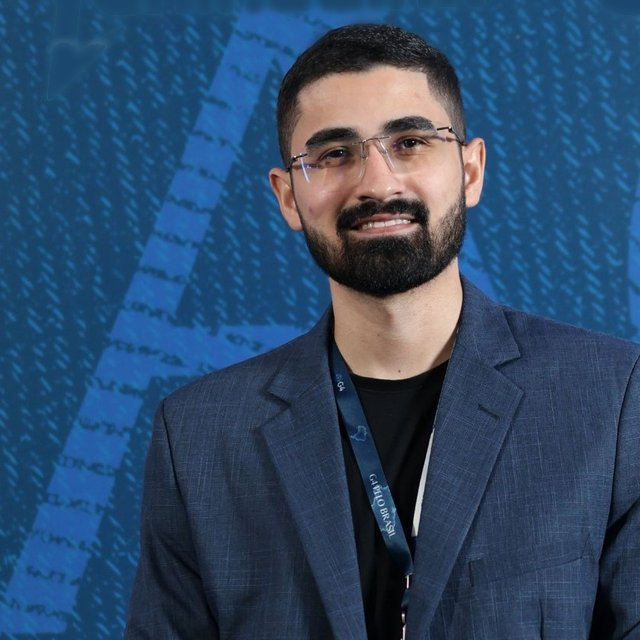
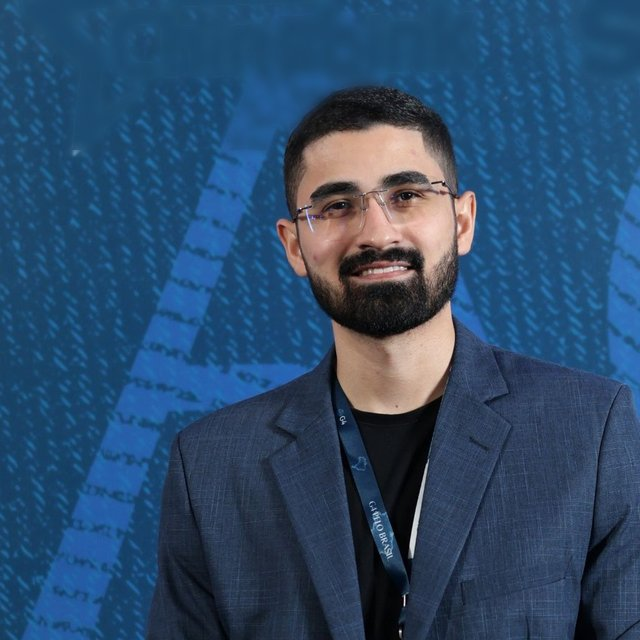
Site: novo enquadramento da foto do Paulo, trajetória do time ao passar o mouse, diferencial Zero papel
Claude-Session: https://claude.ai/code/session_01VS4nYfYMuQqf7BXWYVqDwZ

diff --git a/index.html b/index.html
@@ -66,7 +66,7 @@ header{position:sticky;top:0;z-index:20;background:#fff;border-bottom:1px solid 
 .price-row strong{white-space:nowrap;font:700 28px 'Space Grotesk',sans-serif;color:var(--blue)}
 .price-row strong em{font:400 14px Inter,sans-serif;color:var(--muted);font-style:normal}
 .panel-foot{margin-top:8px;font-size:13px;color:var(--muted)}
-.grid4{display:grid;grid-template-columns:repeat(auto-fit,minmax(250px,1fr));gap:20px}
+.grid4{display:grid;grid-template-columns:repeat(auto-fit,minmax(200px,1fr));gap:18px}
 .feat{background:rgba(255,255,255,.08);border:1px solid var(--line);border-radius:18px;padding:30px;display:flex;flex-direction:column;gap:14px}
 .ico{width:46px;height:46px;border-radius:12px;display:grid;place-items:center;background:#fff}
 .feat h3{font-size:20px}
@@ -128,7 +128,7 @@ footer .logo{color:#fff}
 @media(max-width:640px){section{padding:80px 0}.hero{padding:80px 0 70px}.cta-box{padding:44px 28px}.nav nav{gap:18px}}
 
 .svc .step{display:flex;flex-direction:column;gap:14px;background:#fff}.svc .step h3{font-size:24px;margin:0}.svc .step .btn{margin-top:auto;align-self:flex-start;width:auto}.list.mini{flex:none;border-radius:14px}.list.mini .row{padding:14px 18px;font-size:15px}.svc .note{font-size:13px}
-.team{display:grid;grid-template-columns:repeat(auto-fit,minmax(240px,300px));gap:24px}.member{margin:0;border:1px solid var(--lineL);border-radius:18px;overflow:hidden;background:#F4F7FF}.member img{display:block;width:100%;height:auto;aspect-ratio:1/1;object-fit:cover}.member figcaption{padding:18px 22px!important}.member figcaption{padding:0}.member h3{font-size:21px;color:var(--blue2);margin:0 0 4px}.member span{color:var(--muted);font-size:15px}
+.team{display:grid;grid-template-columns:repeat(auto-fit,minmax(240px,300px));gap:24px}.member{margin:0;border:1px solid var(--lineL);border-radius:18px;overflow:hidden;background:#F4F7FF}.member img{display:block;width:100%;height:auto;aspect-ratio:1/1;object-fit:cover}.member figcaption{padding:18px 22px!important}.member .ph{position:relative;overflow:hidden}.member{cursor:pointer;outline:none}.traj{position:absolute;inset:0;background:rgba(14,26,69,.9);color:#fff;padding:22px;display:flex;flex-direction:column;justify-content:center;gap:8px;opacity:0;transition:opacity .25s;font-size:14px;line-height:1.5}.traj b{font:600 12px Inter,sans-serif;letter-spacing:.16em;text-transform:uppercase;color:#D9E3FF}.traj p{margin:0;color:#fff}.member:hover .traj,.member:focus .traj,.member:focus-within .traj{opacity:1}.member:focus-visible{box-shadow:0 0 0 3px var(--blue)}.team-hint{margin:14px 0 0;color:var(--muted);font-size:14px}.member figcaption{padding:0}.member h3{font-size:21px;color:var(--blue2);margin:0 0 4px}.member span{color:var(--muted);font-size:15px}
 </style>
 <link rel="icon" href="/favicon.ico" sizes="any">
 <link rel="icon" type="image/png" href="/assets/favicon-32.png">
@@ -179,6 +179,7 @@ footer .logo{color:#fff}
 <div class="wrap">
 <div class="sec-head"><span class="eyebrow">Diferenciais</span><h2>Contabilidade sem burocracia, do jeito que o seu negócio precisa.</h2></div>
 <div class="grid4">
+<div class="feat"><div class="ico"><svg width="22" height="22" viewBox="0 0 24 24" fill="none" stroke="#0740EF" stroke-width="1.8" stroke-linecap="round" stroke-linejoin="round" aria-hidden="true"><path d="M14 3H7a2 2 0 0 0-2 2v14a2 2 0 0 0 2 2h10a2 2 0 0 0 2-2V8z"/><path d="M14 3v5h5"/><path d="M4 4l16 16"/></svg></div><h3>Zero papel</h3><p>Não usamos papel: nossos processos são 100% digitais, por dentro da NEXIO e no atendimento a você.</p></div>
 <div class="feat"><div class="ico"><svg width="22" height="22" viewBox="0 0 24 24" fill="none" stroke="#0740EF" stroke-width="1.8" stroke-linecap="round" stroke-linejoin="round" aria-hidden="true"><rect x="3" y="4" width="18" height="12" rx="2"/><path d="M8 20h8M12 16v4"/></svg></div><h3>100% digital</h3><p>Contrato assinado eletronicamente e guias enviadas pelo portal do cliente. Tudo resolvido online.</p></div>
 <div class="feat"><div class="ico"><svg width="22" height="22" viewBox="0 0 24 24" fill="none" stroke="#0740EF" stroke-width="1.8" stroke-linecap="round" stroke-linejoin="round" aria-hidden="true"><circle cx="12" cy="12" r="9"/><path d="M3 12h18M12 3c3 3.2 3 14.8 0 18M12 3c-3 3.2-3 14.8 0 18"/></svg></div><h3>Todo o Brasil</h3><p>Não importa a sua cidade: atendemos empresas e profissionais de qualquer estado.</p></div>
 <div class="feat"><div class="ico"><svg width="22" height="22" viewBox="0 0 24 24" fill="none" stroke="#0740EF" stroke-width="1.8" stroke-linecap="round" stroke-linejoin="round" aria-hidden="true"><path d="M20 12l-8 8-9-9V3h8z"/><circle cx="7.5" cy="7.5" r="1.5"/></svg></div><h3>Preço fechado</h3><p>Você sabe exatamente o que está incluso e quanto paga — com valores abaixo da média do mercado.</p></div>
@@ -265,9 +266,10 @@ footer .logo{color:#fff}
 </div>
 <div class="sec-head" style="margin:72px 0 32px"><span class="eyebrow">Quem faz a NEXIO</span><h2>Nosso time.</h2></div>
 <div class="team">
-<figure class="member"><img src="/assets/equipe/paulo.jpg" alt="Paulo Zani, contador da NEXIO" loading="lazy" width="640" height="640"><figcaption><h3>Paulo Zani</h3><span>Contador</span></figcaption></figure>
-<figure class="member"><img src="/assets/equipe/ricardo.jpg" alt="Ricardo Queiroz, contador da NEXIO" loading="lazy" width="640" height="640"><figcaption><h3>Ricardo Queiroz</h3><span>Contador</span></figcaption></figure>
+<figure class="member" tabindex="0"><div class="ph"><img src="/assets/equipe/paulo.jpg" alt="Paulo Zani, contador da NEXIO" loading="lazy" width="640" height="640"><div class="traj"><b>Trajetória</b><p>Formado em Contabilidade no Amazonas, em 2023, com pós-graduação em Controladoria e Finanças.</p><p>Vasta experiência na área empresarial: compras, licitações, supervisão de vendas, almoxarifado e outras.</p><p>Facilidade com tecnologia e desenvolvimento.</p></div></div><figcaption><h3>Paulo Zani</h3><span>Contador</span></figcaption></figure>
+<figure class="member" tabindex="0"><div class="ph"><img src="/assets/equipe/ricardo.jpg" alt="Ricardo Queiroz, contador da NEXIO" loading="lazy" width="640" height="640"><div class="traj"><b>Trajetória</b><p>Formado em Contabilidade no Amazonas, em 2022, com pós-graduação em Controladoria e Finanças.</p><p>20 anos de experiência em banco, em financiamento, gerência comercial e finanças, e 14 anos em contabilidade.</p><p>Contador com experiência consolidada e domínio da legislação brasileira.</p></div></div><figcaption><h3>Ricardo Queiroz</h3><span>Contador</span></figcaption></figure>
 </div>
+<p class="team-hint">Passe o mouse (ou toque) na foto para conhecer a trajetória.</p>
 </div>
 </section>
 
